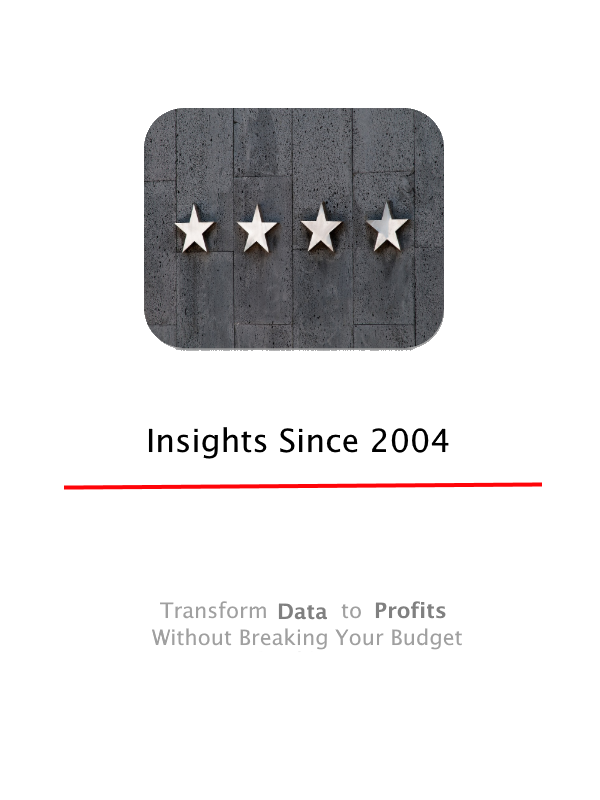
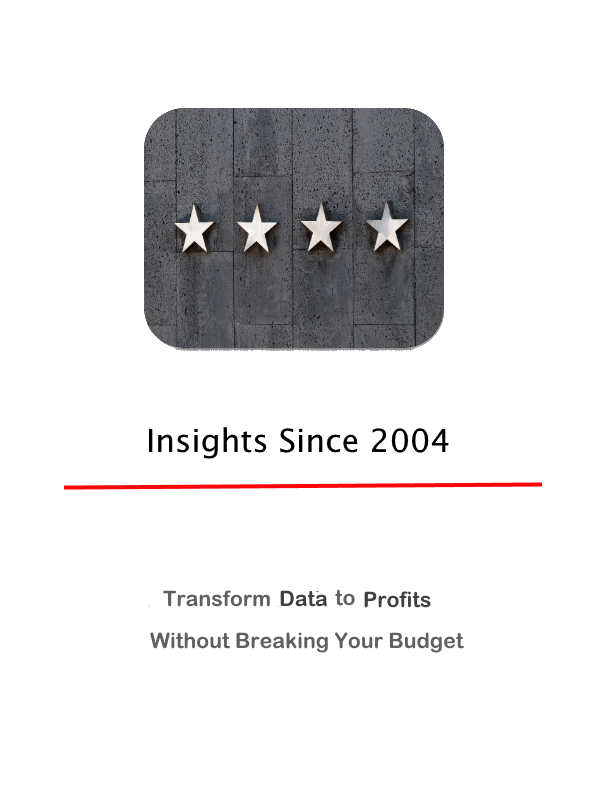
Add Google Analytics ID and fix of fonts on CTA Form images

Changed region(s): [[0.24, 0.7188, 0.78, 0.8125]]

diff --git a/src/main.js b/src/main.js
@@ -1,25 +1,25 @@
-import Vue from 'vue'
-import BootstrapVue from "bootstrap-vue"
-import App from './App.vue'
-import router from './router'
-import Meta from 'vue-meta'
-import Analytics from 'vue-analytics'
+import Vue from "vue";
+import BootstrapVue from "bootstrap-vue";
+import App from "./App.vue";
+import router from "./router";
+import Meta from "vue-meta";
+import Analytics from "vue-analytics";
 
-import "bootstrap-vue/dist/bootstrap-vue.css"
-import "bootstrap/dist/css/bootstrap.min.css"
-import '../assets/css/bootstrap.min.css'
-import '../assets/css/app.css'
+import "bootstrap-vue/dist/bootstrap-vue.css";
+import "bootstrap/dist/css/bootstrap.min.css";
+import "../assets/css/bootstrap.min.css";
+import "../assets/css/app.css";
 
 Vue.config.productionTip = true;
 Vue.use(BootstrapVue);
 Vue.use(Meta);
-// Vue.use(Analytics, {
-//   id: '',
-//   router
-// });
+Vue.use(Analytics, {
+  id: "UA-48109328-6",
+  router
+});
 
 new Vue({
-  el: '#app',
+  el: "#app",
   router,
   render: h => h(App)
 });
